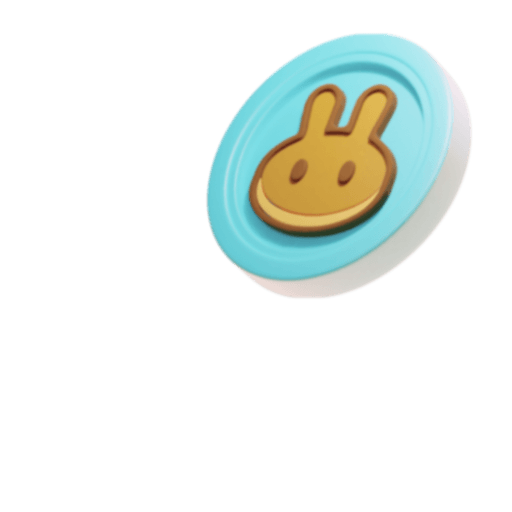
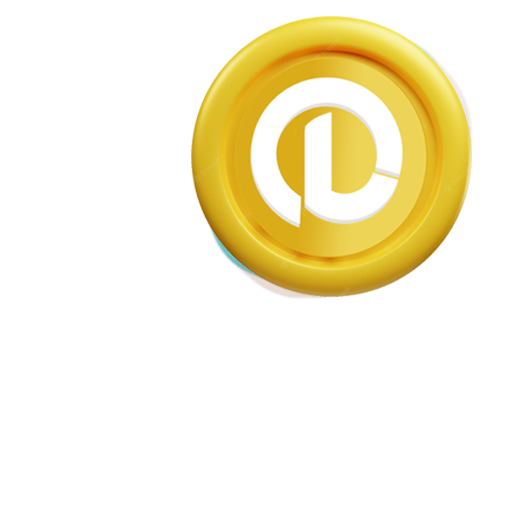
Update SalesSection image

Changed region(s): [[0.375, 0.0312, 0.9375, 0.5938]]

diff --git a/src/views/Home/components/SalesSection/data.ts b/src/views/Home/components/SalesSection/data.ts
@@ -17,10 +17,10 @@ export const swapSectionData: SalesSectionProps = {
   images: {
     path: '/images/home/trade/',
     attributes: [
-      // { src: 'BNB', alt: 'BNB token' },
-      // { src: 'BTC', alt: 'BTC token' },
-      // { src: 'LENO', alt: 'LENO token' },
-      { src: 'GLOBE', alt: 'Globe' },
+      { src: 'BNB', alt: 'BNB token' },
+      { src: 'BTC', alt: 'BTC token' },
+      { src: 'LENO', alt: 'LENO token' },
+      // { src: 'GLOBE', alt: 'Globe' },
     ],
   },
 }
